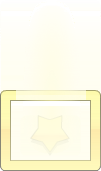
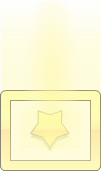
put the character selector in background, added return key in controls.

diff --git a/index.html b/index.html
@@ -1,7 +1,7 @@
 <!DOCTYPE html>
 <html>
 <head>
-    <title>Effective JavaScript: Frogger</title>
+    <title>Can you reach the next rive ?</title>
     <link href="http://fonts.googleapis.com/css?family=Lato:400" rel="stylesheet" type="text/css">
     <link rel="stylesheet" href="css/bootstrap.min.css">
     <link rel="stylesheet" href="css/style.css">
@@ -21,6 +21,7 @@
                     <li><span class="control down">&#8595</span> Move the player down.</li>
                     <li><span class="control right">&#8594</span> Move the player/selector to the right.</li>
                     <li><span class="control left">&#8592</span> Move the player/selector to the left.</li>
+                    <li><span class="control key">&#9166</span> Select a player.</li>
                     <li><span class="control alpha">h</span> Redeem 1 life against an item.</li>
                     <li><span class="control alpha">p</span> Pause/Resume the game.</li>
                     <li><span class="control alpha">q</span> Quit and show the player selection screen.</li>

diff --git a/js/engine.js b/js/engine.js
@@ -110,12 +110,12 @@ var Engine = (function(global) {
         canvas.width = characters.length * 101;
         canvas.height = 171;
 
+        ctx.drawImage(Resources.get(selectorImage), game.characterSelector.position * 101, 0);
+
         for (var i = 0; i < characters.length; ++i) {
             var r = Resources.get(characters[i].sprite);
             ctx.drawImage(Resources.get(characters[i].sprite), i * 101, 0);
         }
-
-        ctx.drawImage(Resources.get(selectorImage), game.characterSelector.position * 101, 0);
     }
 
     function checkCollisions() {

diff --git a/css/style.css b/css/style.css
@@ -94,6 +94,7 @@ ul {
     padding-right: 12px;
 }
 
+.key,
 .left,
 .right {
     padding-left: 8px;
